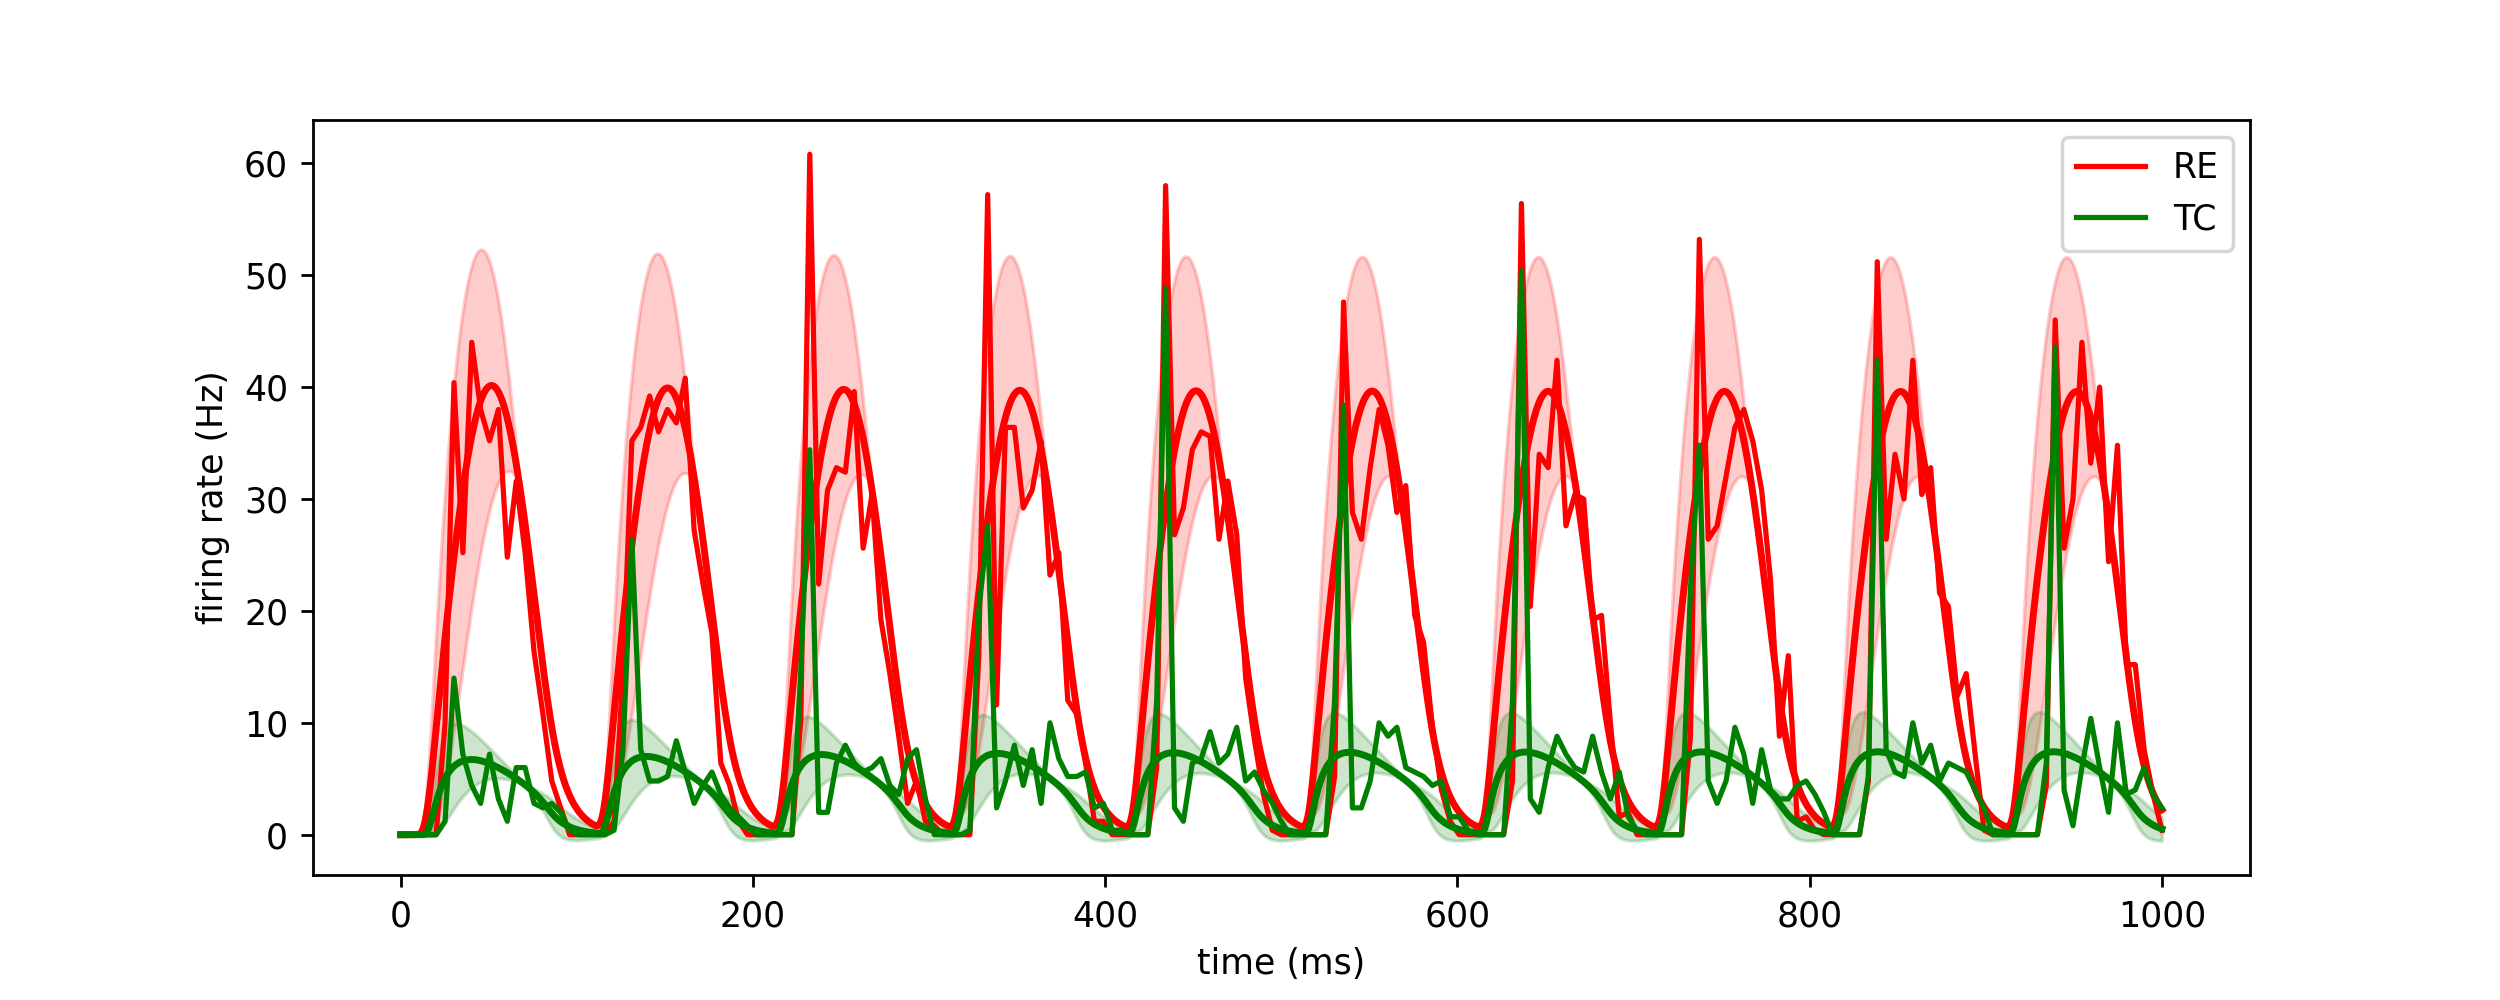
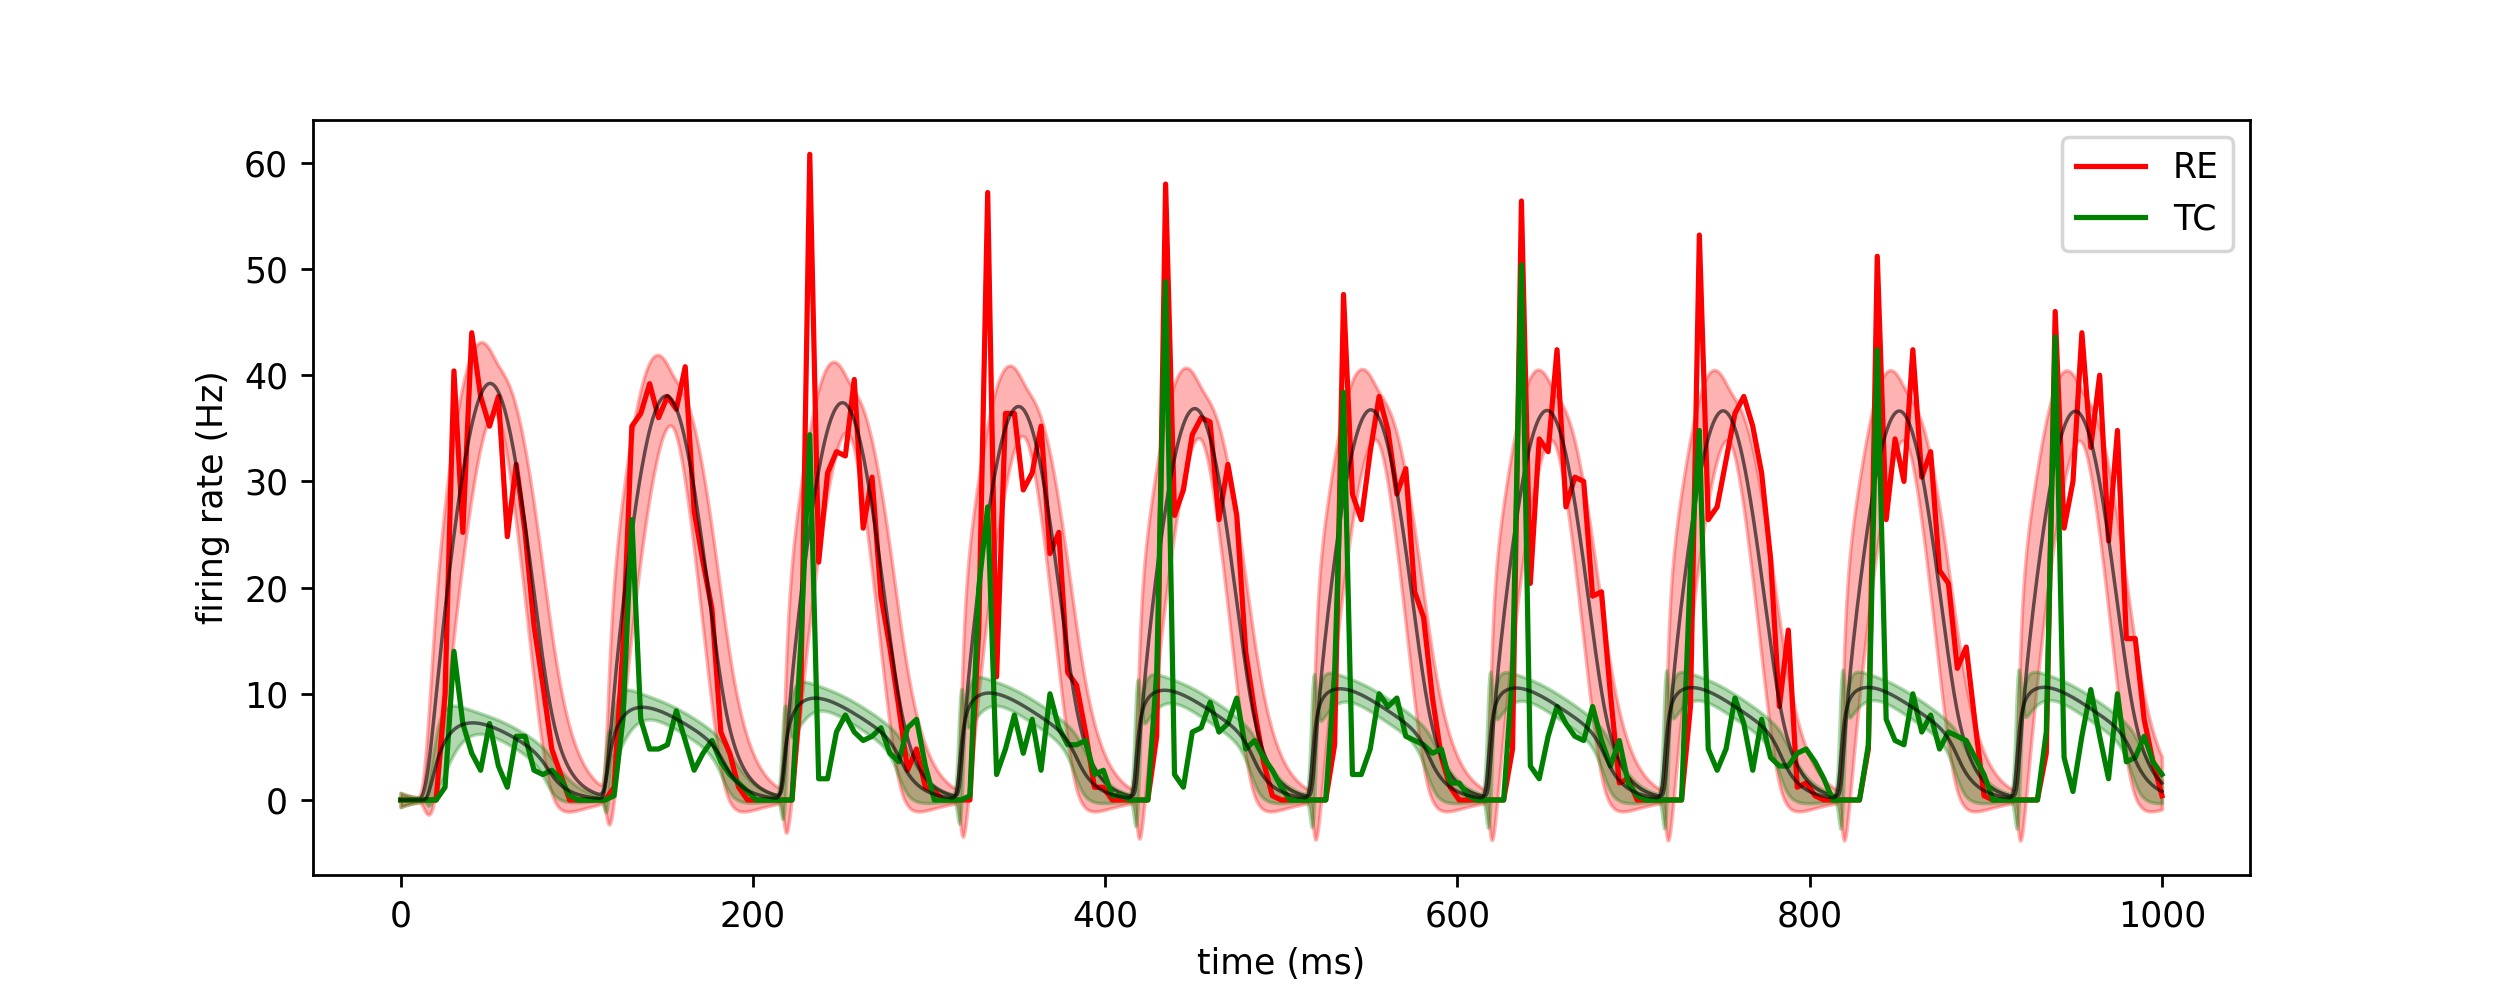
first fix for covs

diff --git a/MF_script.py b/MF_script.py
@@ -96,8 +96,8 @@ def MFw(typ, w, fexc, finh):
 
 # constants
 Gl=10*1.e-9
-Tw=200*1.e-3
-b=0.01*1e-9
+Tw=200*1e-3
+b=10*1e-12
 
 Ti=5*1.e-3 # Tsyn RE
 Te=5*1.e-3 # Tsyn TC
@@ -125,7 +125,7 @@ t = np.linspace(0, tfinal, tsteps)
 
 #=CORTEX external input
 #---constant
-external_input=np.full(tsteps, 2.)
+external_input=np.full(tsteps, 10.)
 # external_input+=np.random.randn(tsteps)/2
 
 #-timeframe
@@ -138,7 +138,6 @@ external_input=np.full(tsteps, 2.)
 # freq=10
 # external_input = ampl/2*(1-np.cos(freq*2*np.pi*t))
 
-
 #=STIM (Peripherie?)
 stim=np.zeros(tsteps)
 # stim[int(tsteps*2/4):int(tsteps*3/4)] = 20.
@@ -146,8 +145,8 @@ stim=np.zeros(tsteps)
 
 
 #-initial conds
-fecont=1;
-ficont=60;
+fecont=0;
+ficont=30;
 we=fecont*b*Tw
 wi=ficont*b*Tw
 cee,cei,cii=.5,.5,.5
@@ -162,9 +161,9 @@ for i in progressBar(range(len(t))):
     
     fecontold=fecont
     ficontold=ficont
-    weold,wiold=we,wi
+    # weold,wiold=we,wi
     ceeold,ceiold,ciiold=cee,cei,cii
-    TCfe = external_input[i]+stim[i]/8 +1e-9
+    TCfe = external_input[i]+stim[i]/8
     REfe = external_input[i]+fecont/16
 
     # TFs
@@ -173,10 +172,10 @@ for i in progressBar(range(len(t))):
 
     #-TF derivatives
     df=1e-5
-    dveFe = ( TF('TC',TCfe+df,ficont,we) - Fe )/df
+    dveFe = ( TF('TC',TCfe+df/24,ficont,we) - Fe )/df/24
     dviFe = ( TF('TC',TCfe,ficont+df,we) - Fe )/df
-    dveFi = ( TF('RE',REfe+df,ficont,wi) - Fi )/df
-    dviFi = ( TF('RE',REfe,ficont+df,wi) - Fi )/df
+    dveFi = ( TF('RE',REfe+df/12,ficont,wi) - Fi )/df/12
+    dviFi = ( TF('RE',REfe,ficont+df/6,wi) - Fi )/df/6
     # dveFe = (TF('TC',TCfe+df/4,ficont,0)-TF('TC',TCfe-df/4,ficont,0))/df/2
     # dviFe = (TF('TC',TCfe,ficont+df/2,0)-TF('TC',TCfe,ficont-df/2,0))/df
     # dveFi = (TF('RE',REfe+df/2,ficont,w)-TF('RE',REfe-df/2,ficont,w))/df
@@ -215,8 +214,8 @@ for i in progressBar(range(len(t))):
     # fecont += dt/T*( (Fe-fecont) + (cee*dvedveFe+cei*dvedviFe+cii*dvidviFe+cei*dvidveFe)/2 )
     # ficont += dt/T*( (Fi-ficont) + (cee*dvedveFi+cei*dvedviFi+cii*dvidviFi+cei*dvidveFi)/2 )
     
-    we += dt*MFw('TC',we,TCfe,ficontold)
-    wi += dt*MFw('RE',wi,REfe,ficontold)
+    we += dt*MFw('TC',we,fecontold,0) # fecontold = v_e here
+    wi += dt*MFw('RE',wi,REfe,ficontold) # ficontold = v_i = finh (for MPF)
 
     if fecont<1e-9: fecont=1e-9
     if ficont<1e-9: ficont=1e-9
@@ -262,12 +261,13 @@ LScii=np.array(LScii)
 #-SAVE
 # np.save('data\\MF_out_adaptnew', np.vstack((LSfe,LSfi)))
 np.save('data\\MF_out_we', np.vstack((LSfe,LSfi)))
+np.save('data\\MF_out_cov', np.vstack((LScee,LScii)))
 
 #-testplots
 # plt.plot(test)
-plt.plot(LScee, c='b')
-plt.plot(LScii, c='r')
-plt.show()
+# plt.plot(LScee, c='b')
+# plt.plot(LScii, c='r')
+# plt.show()
 
 #-PLOT firing rates and phasespace
 fig, ax=plt.subplots(1,2, figsize=(9,3), width_ratios=[1,3])
@@ -278,9 +278,9 @@ ax[0].set_ylabel('LSfi (Hz)')
 # plt.savefig('Phasespace3D.png')
 
 ax[1].plot(t, LSfe, c='b', label='LSfe')
-# ax[1].fill_between(t, LSfe-LScee, LSfe+LScee, color='b', label='cee', alpha=0.2)
+ax[1].fill_between(t, LSfe-LScee, LSfe+LScee, color='b', label='cee', alpha=0.2)
 ax[1].plot(t, LSfi, c='r', label='LSfi')
-# ax[1].fill_between(t, LSfi-LScii, LSfi+LScii, color='r', label='cii', alpha=0.2)
+ax[1].fill_between(t, LSfi-LScii, LSfi+LScii, color='r', label='cii', alpha=0.2)
 ax[1].plot(t,external_input, c='black', ls='--', label='Dext')
 ax[1].legend()
 ax[1].set_xlabel('time (s)')
